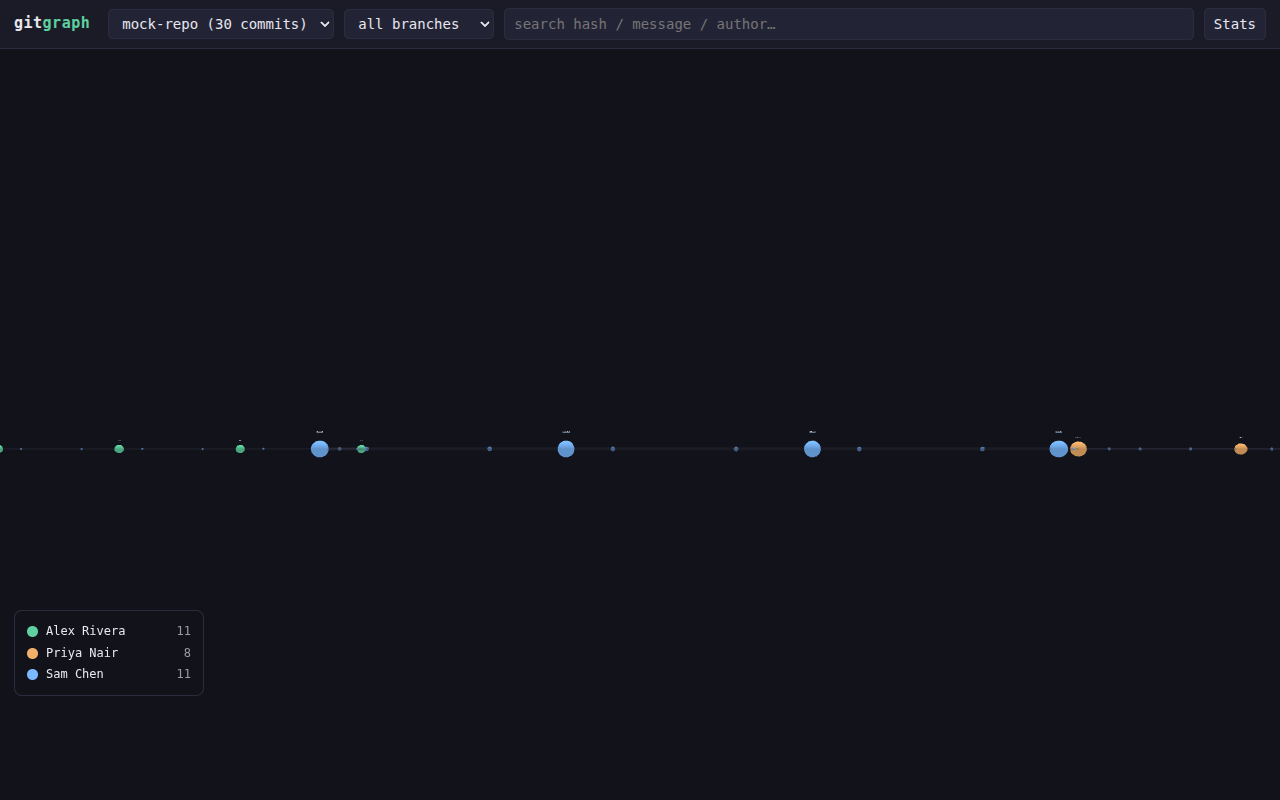
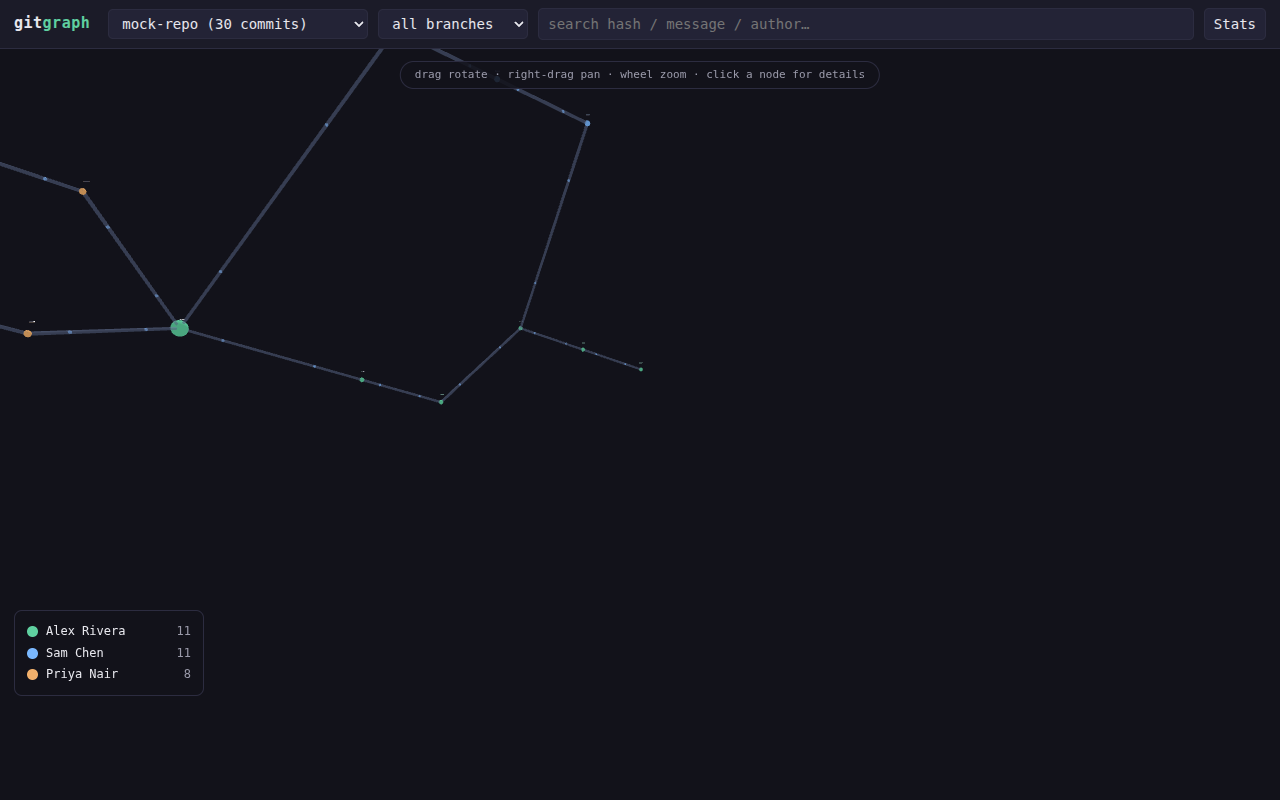
Shape-aware graph: full-repo topology, readable at scale, sane controls
The newest-2500 slice collapsed real repos into a dotted line. Now:
- /api/graph samples the repo's SHAPE: all branch/tag tips + ~45% of
  merge commits + stride-sampled trunk — the topology, not a slice
- topological depth via Kahn's algorithm over the full graph (the naive
  relaxation took 100s on neovim's merges; Kahn is O(V+E))
- branch assignment by closest tip so historical branches keep lanes
- trunk commits render small; merges and ref tips are the landmarks,
  so the edge chain reads as the line (no fog of dots)
- camera framed from LIVE post-settle positions (the sim's centering
  tick shifted the graph past where the camera was aimed)
- controls: right-drag pan, damping, auto-rotate that stops on touch,
  hint overlay; label sprites only under 400 nodes
- importer --no-stats for blobless clones (neovim 40k commits in ~5s)

diff --git a/static/app.js b/static/app.js
@@ -61,30 +61,36 @@ async function loadBranches() {
 
 /* ---------------- 3D graph ---------------- */
 
-function layout3d(nodes, edges) {
-  // levels: distance from the tip set (newest = level 0)
-  const child = new Map();
-  for (const e of edges) (child.get(e.target) ?? child.set(e.target, []).get(e.target)).push(e.source);
+function layout3d(nodes, edges, maxLevelGiven) {
+  // levels: distance from the tip set (newest = level 0). Use the server's
+  // full-graph levels when present (sampled subgraphs lose connectivity).
   const level = new Map();
-  const ids = new Set(nodes.map((n) => n.id));
-  const tips = nodes.filter((n) => !child.get(n.id)?.length);
-  const stack = tips.map((t) => t.id);
-  for (const t of stack) level.set(t, 0);
-  while (stack.length) {
-    const id = stack.pop();
-    const l = level.get(id) ?? 0;
-    for (const e of edges) {
-      if (e.source !== id) continue;
-      if (!ids.has(e.target)) continue;
-      if (!level.has(e.target) || level.get(e.target) < l + 1) {
-        level.set(e.target, l + 1);
-        stack.push(e.target);
+  if (maxLevelGiven != null && nodes.some((n) => typeof n.level === "number")) {
+    for (const n of nodes) level.set(n.id, n.level ?? 0);
+  } else {
+    const child = new Map();
+    for (const e of edges) (child.get(e.target) ?? child.set(e.target, []).get(e.target)).push(e.source);
+    const ids = new Set(nodes.map((n) => n.id));
+    const tips = nodes.filter((n) => !child.get(n.id)?.length);
+    const stack = tips.map((t) => t.id);
+    for (const t of stack) level.set(t, 0);
+    while (stack.length) {
+      const id = stack.pop();
+      const l = level.get(id) ?? 0;
+      for (const e of edges) {
+        if (e.source !== id) continue;
+        if (!ids.has(e.target)) continue;
+        if (!level.has(e.target) || level.get(e.target) < l + 1) {
+          level.set(e.target, l + 1);
+          stack.push(e.target);
+        }
       }
     }
   }
-  const maxLevel = Math.max(0, ...level.values());
+  const maxLevel = maxLevelGiven != null ? maxLevelGiven : Math.max(0, ...level.values());
 
-  // structured space: time on X, branches on Y, authors on Z
+  // structured space: time on X, branches on Y, authors on Z.
+  // author planes only when the team is small — beyond that it's noise
   const order = ["main", "master", "develop"];
   const branches = [...new Set(nodes.map((n) => n.branch).filter(Boolean))];
   branches.sort((a, b) => {
@@ -92,15 +98,16 @@ function layout3d(nodes, edges) {
     return (ai === -1 ? 99 : ai) - (bi === -1 ? 99 : bi);
   });
   const authors = [...new Set(nodes.map((n) => n.author).filter(Boolean))].sort();
+  const useAuthorZ = authors.length <= 12;
   const bLane = new Map(branches.map((b, i) => [b, i]));
   const aLane = new Map(authors.map((a, i) => [a, i]));
-  const HS = 100, BS = 150, AS = 180;
+  const HS = 60, BS = 90, AS = 110;
   const pos = new Map(nodes.map((n) => [n.id, {
     x: (maxLevel - (level.get(n.id) ?? 0)) * HS,
     y: ((bLane.get(n.branch) ?? 0) - (branches.length - 1) / 2) * BS,
-    z: ((aLane.get(n.author) ?? 0) - (authors.length - 1) / 2) * AS,
+    z: useAuthorZ ? ((aLane.get(n.author) ?? 0) - (authors.length - 1) / 2) * AS : 0,
   }]));
-  return { pos, maxLevel, branches, authors };
+  return { pos, maxLevel, branches, authors, useAuthorZ };
 }
 
 const Graph = ForceGraph3D()(document.getElementById("cy"))
@@ -113,8 +120,9 @@ const Graph = ForceGraph3D()(document.getElementById("cy"))
     `+${n.add ?? "?"} −${n.del ?? "?"} · ${n.files ?? "?"} files` +
     (n.merged ? " · MERGE" : "") + (n.branch ? ` · ${esc(n.branch)}` : "") +
     `<br>${n.id.slice(0, 12)}…`)
-  .linkColor(() => "#4a4a5c")
-  .linkWidth(1.2)
+  .linkColor(() => "#6b7ba0")
+  .linkOpacity(0.55)
+  .linkWidth(2)
   .linkDirectionalParticles(2)
   .linkDirectionalParticleWidth(2)
   .linkDirectionalParticleColor((l) => (l.source && l.source.color) || "#7ab8ff")
@@ -128,10 +136,14 @@ const Graph = ForceGraph3D()(document.getElementById("cy"))
   .nodeThreeObject((n) => {
     const THREE = window.THREE;
     const group = new THREE.Group();
+    // merges and ref tips are the landmarks; trunk commits stay small so the
+    // edge chain reads as the visible line, not a fog of dots
+    const big = n.merged || n.tip;
     const sphere = new THREE.Mesh(
-      new THREE.SphereGeometry(n.merged ? 4.6 : 3.4, 16, 16),
+      new THREE.SphereGeometry(big ? 5.4 : 1.7, 14, 14),
       new THREE.MeshLambertMaterial({ color: n.color }));
     group.add(sphere);
+    if (window.__nodeCount && window.__nodeCount > 400) return group;  // no label clutter at scale
     const canvas = document.createElement("canvas");
     const ctx = canvas.getContext("2d");
     const text = n.msg.slice(0, 26);
@@ -172,10 +184,13 @@ async function loadGraph() {
     merged: n.merged,
     tags: n.tags,
     add: n.add, del: n.del, files: n.files,
+    level: n.level,
+    tip: n.tip,
     color: authorColor(n.author || "?"),
   }));
   const links = data.edges.map((e) => ({ source: e.target, target: e.source }));
-  const L = layout3d(nodes, links);
+  window.__nodeCount = nodes.length;
+  const L = layout3d(nodes, links, data.maxLevel);
 
   // deterministic structured space: time on X, branches on Y, authors on Z.
   // preset coordinates + d3AlphaDecay(1) means the sim never pulls it apart.
@@ -186,13 +201,18 @@ async function loadGraph() {
 
   Graph.graphData({ nodes, links });
 
-  // frame the space from a 3/4 angle immediately (positions are preset, so
-  // there's nothing to wait for) — you're in the space, not staring at its center
-  const xs = nodes.map((n) => L.pos.get(n.id).x);
-  const maxX = Math.max(...xs);
-  Graph.cameraPosition(
-    { x: maxX * 0.55, y: -maxX * 0.42, z: maxX * 0.62 },
-    { x: maxX * 0.45, y: 0, z: 0 }, 900);
+  // frame from a 3/4 angle AFTER the sim's centering tick settles, using the
+  // live positions (the sim shifts everything by the mean). For big graphs the
+  // distance is capped so you land readable near the newest commits.
+  setTimeout(() => {
+    const live = Graph.graphData().nodes.map((n) => n.x);
+    const maxX = Math.max(...live), minX = Math.min(...live);
+    const span = maxX - minX;
+    const dist = Math.min(span * 0.62, 26000);
+    Graph.cameraPosition(
+      { x: maxX - dist * 0.4, y: -dist * 0.3, z: dist * 0.5 },
+      { x: maxX - dist * 0.08, y: 0, z: 0 }, 900);
+  }, 80);
 
   renderLegend(L.authors, nodes);
 }
@@ -215,9 +235,14 @@ function renderLegend(authors, nodes) {
 const ctrl = Graph.controls();
 ctrl.enableDamping = true;
 ctrl.dampingFactor = 0.08;
+ctrl.enablePan = true;               // right-drag to pan
 ctrl.autoRotate = true;
 ctrl.autoRotateSpeed = 0.5;
 ctrl.addEventListener("start", () => { ctrl.autoRotate = false; });
+const hint = document.createElement("div");
+hint.id = "hint";
+hint.textContent = "drag rotate · right-drag pan · wheel zoom · click a node for details";
+document.getElementById("cy").appendChild(hint);
 
 /* ---------------- commit panel ---------------- */
 

diff --git a/static/style.css b/static/style.css
@@ -98,3 +98,10 @@ main { flex: 1; position: relative; min-height: 0; }
 .search-pop div:hover { background: var(--panel2); }
 .search-pop .s-msg { color: var(--text); }
 .search-pop .s-meta { color: var(--dim); font-size: 11px; }
+
+#hint {
+  position: absolute; top: 12px; left: 50%; transform: translateX(-50%);
+  background: rgba(18, 18, 26, 0.85); border: 1px solid var(--border);
+  border-radius: 20px; padding: 5px 14px; font-size: 11px; color: var(--dim);
+  pointer-events: none; z-index: 10;
+}

diff --git a/app/main.py b/app/main.py
@@ -56,22 +56,61 @@ def repos():
     return rows
 
 @app.get("/api/graph")
-def graph(repo: str, branch: str = "", limit: int = 2000):
+def graph(repo: str, branch: str = "", limit: int = 2500):
     with driver().session() as s:
-        commits = s.run(f"""
-            MATCH (r:Repo {{name: $repo}})-[:CONTAINS]->(c:Commit)
+        # the SHAPE of the repo: every merge, every branch/tag tip, and a
+        # stride-sampled trunk — not just the newest slice
+        all_commits = s.run("""
+            MATCH (r:Repo {name: $repo})-[:CONTAINS]->(c:Commit)
+            RETURN c.hash AS hash, c.merged AS merged
+        """, repo=repo).data()
+        tip_hashes = set()
+        for t in s.run("""
+            MATCH (b:Branch {repo: $repo})-[:POINTS_TO]->(tip)
+            MATCH (t:Tag {repo: $repo})-[:POINTS_TO]->(ttip)
+            RETURN tip.hash AS h UNION
+            MATCH (t:Tag {repo: $repo})-[:POINTS_TO]->(ttip)
+            RETURN ttip.hash AS h
+        """, repo=repo).data():
+            tip_hashes.add(t["h"])
+
+        # order all commits oldest -> newest for even stride sampling
+        chrono = s.run("""
+            MATCH (r:Repo {name: $repo})-[:CONTAINS]->(c:Commit)
+            RETURN c.hash AS hash, c.merged AS merged
+            ORDER BY c.authored_at ASC
+        """, repo=repo).data()
+
+        merges = [c for c in chrono if c["merged"]]
+        trunk = [c for c in chrono if not c["merged"]]
+        sample = set(tip_hashes)
+        # all tips + a balanced mix: ~45% merges, rest stride-sampled trunk
+        remaining = limit - len(sample)
+        merge_cap = max(0, int(remaining * 0.45))
+        merge_stride = max(1, len(merges) // merge_cap) if merge_cap else 10 ** 9
+        for i in range(0, len(merges), merge_stride):
+            if len(sample) >= limit:
+                break
+            sample.add(merges[i]["hash"])
+        remaining = limit - len(sample)
+        trunk_stride = max(1, len(trunk) // remaining) if remaining > 0 else 10 ** 9
+        for i in range(0, len(trunk), trunk_stride):
+            if len(sample) >= limit:
+                break
+            sample.add(trunk[i]["hash"])
+
+        commits = s.run("""
+            MATCH (c:Commit)
+            WHERE c.hash IN $hashes
             RETURN c.hash AS hash, c.msg AS msg, c.author_name AS author,
                    c.authored_at AS date, c.merged AS merged,
                    c.additions AS add, c.deletions AS del,
                    c.files_changed AS files
             ORDER BY c.authored_at DESC
-            LIMIT $limit
-        """, repo=repo, limit=limit).data()
-        hashes = [c["hash"] for c in commits]
-        hash_set = set(hashes)
+        """, hashes=list(sample)).data()
+        hash_set = {c["hash"] for c in commits}
 
-        # branch membership via a plain Python BFS over the parent edges —
-        # Cypher variable-length paths explode with merges, this does not
+        # branch membership via a plain Python BFS over the parent edges
         edges = s.run("""
             MATCH (r:Repo {name: $repo})-[:CONTAINS]->(c:Commit)-[:PARENT]->(p:Commit)
             RETURN c.hash AS c, p.hash AS p
@@ -86,19 +125,47 @@ def graph(repo: str, branch: str = "", limit: int = 2000):
 
         order = ["main", "master", "develop"]
         tips.sort(key=lambda b: (order.index(b["name"]) if b["name"] in order else 99, b["name"]))
-        branch_of = {}
+        # each commit joins the branch whose tip is CLOSEST to it — historical
+        # branches keep their own lanes instead of everything collapsing onto main
+        best_branch = {}
+        best_depth = {}
         for b in tips:
-            stack, seen = [b["tip"]], set()
+            stack, seen = [(b["tip"], 0)], set()
             while stack:
-                h = stack.pop()
+                h, depth = stack.pop()
                 if h in seen:
                     continue
                 seen.add(h)
-                if h in hash_set and h not in branch_of:
-                    branch_of[h] = b["name"]
+                if h in hash_set and (h not in best_depth or depth < best_depth[h]):
+                    best_depth[h] = depth
+                    best_branch[h] = b["name"]
                 for p in child.get(h, []):
                     if p not in seen:
-                        stack.append(p)
+                        stack.append((p, depth + 1))
+        branch_of = best_branch
+
+        # topological depth over the FULL graph via Kahn's algorithm
+        # (O(V+E) — a naive relaxation re-pushes merges and takes minutes)
+        from collections import deque as _deque
+        nodes = set(child.keys())
+        for ps in child.values():
+            nodes.update(ps)
+        children_of = {}
+        for c, ps in child.items():
+            for p in ps:
+                children_of.setdefault(p, []).append(c)
+        indeg = {n: len(child.get(n, [])) for n in nodes}
+        queue = _deque(n for n in nodes if indeg[n] == 0)
+        level = {n: 0 for n in nodes}
+        while queue:
+            n = queue.popleft()
+            for c in children_of.get(n, []):
+                if level[c] < level[n] + 1:
+                    level[c] = level[n] + 1
+                indeg[c] -= 1
+                if indeg[c] == 0:
+                    queue.append(c)
+        max_level = max(level.values()) if level else 0
 
         # optional branch scope: the ancestry set of one branch
         scope = None
@@ -136,6 +203,8 @@ def graph(repo: str, branch: str = "", limit: int = 2000):
             "add": c["add"], "del": c["del"], "files": c["files"],
             "branch": branch_of.get(c["hash"], ""),
             "tags": tags.get(c["hash"], []),
+            "level": level.get(c["hash"], 0),
+            "tip": best_depth.get(c["hash"], 999) == 0,
         })
     in_set = {n["id"] for n in nodes}
     with driver().session() as s:
@@ -144,7 +213,7 @@ def graph(repo: str, branch: str = "", limit: int = 2000):
             WHERE c.hash IN $hashes AND p.hash IN $hashes
             RETURN c.hash AS source, p.hash AS target
         """, hashes=list(in_set)).data() if in_set else []
-    return {"nodes": nodes, "edges": edges}
+    return {"nodes": nodes, "edges": edges, "maxLevel": max_level}
 
 @app.get("/api/node/{hash}")
 def node(hash: str):
